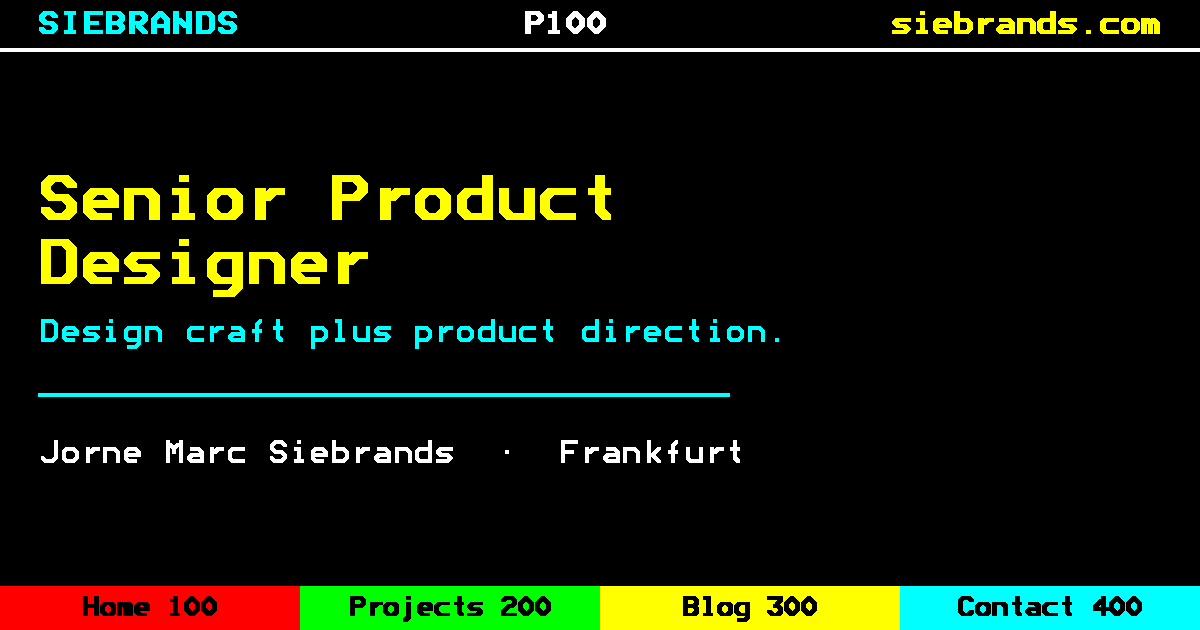
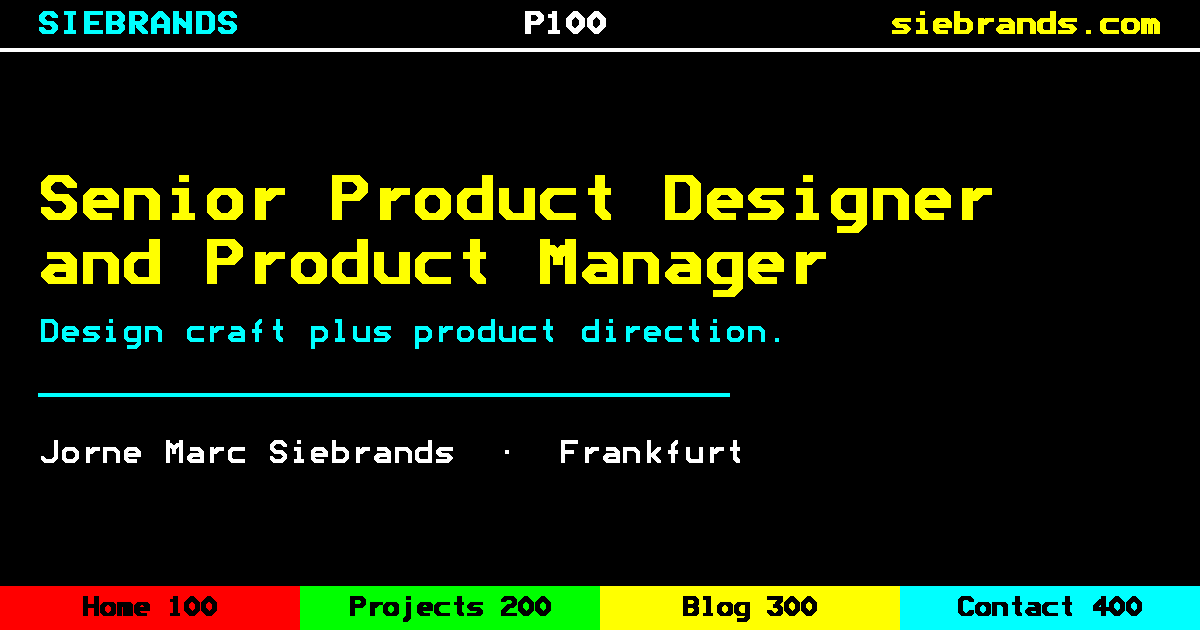
positioning: Senior Product Designer and Product Manager site-wide
Applies the dual title across the browser title, meta descriptions, JSON-LD
jobTitle and the landing-page hero, and clears the last two pages still
carrying the old 'UX Designer & Product Manager' wording. OG card and the
This Site cover regenerated to match.

Changed region(s): [[0.0308, 0.3619, 0.4008, 0.4825], [0.555, 0.2714, 0.8325, 0.3619], [0.4317, 0.3619, 0.7092, 0.4825]]

diff --git a/src/data/pages/about.md b/src/data/pages/about.md
@@ -1,6 +1,6 @@
 ---
-title: "Senior Product Designer"
-description: "Jorne Marc Siebrands — Senior Product Designer in Frankfurt. Design craft plus product-direction authority. Bikemap, digital office 24, KION."
+title: "Senior Product Designer and Product Manager"
+description: "Jorne Marc Siebrands — Senior Product Designer and Product Manager in Frankfurt. Design craft plus product-direction authority. Bikemap, digital office 24, KION."
 pageNumber: "100"
 ---
 
